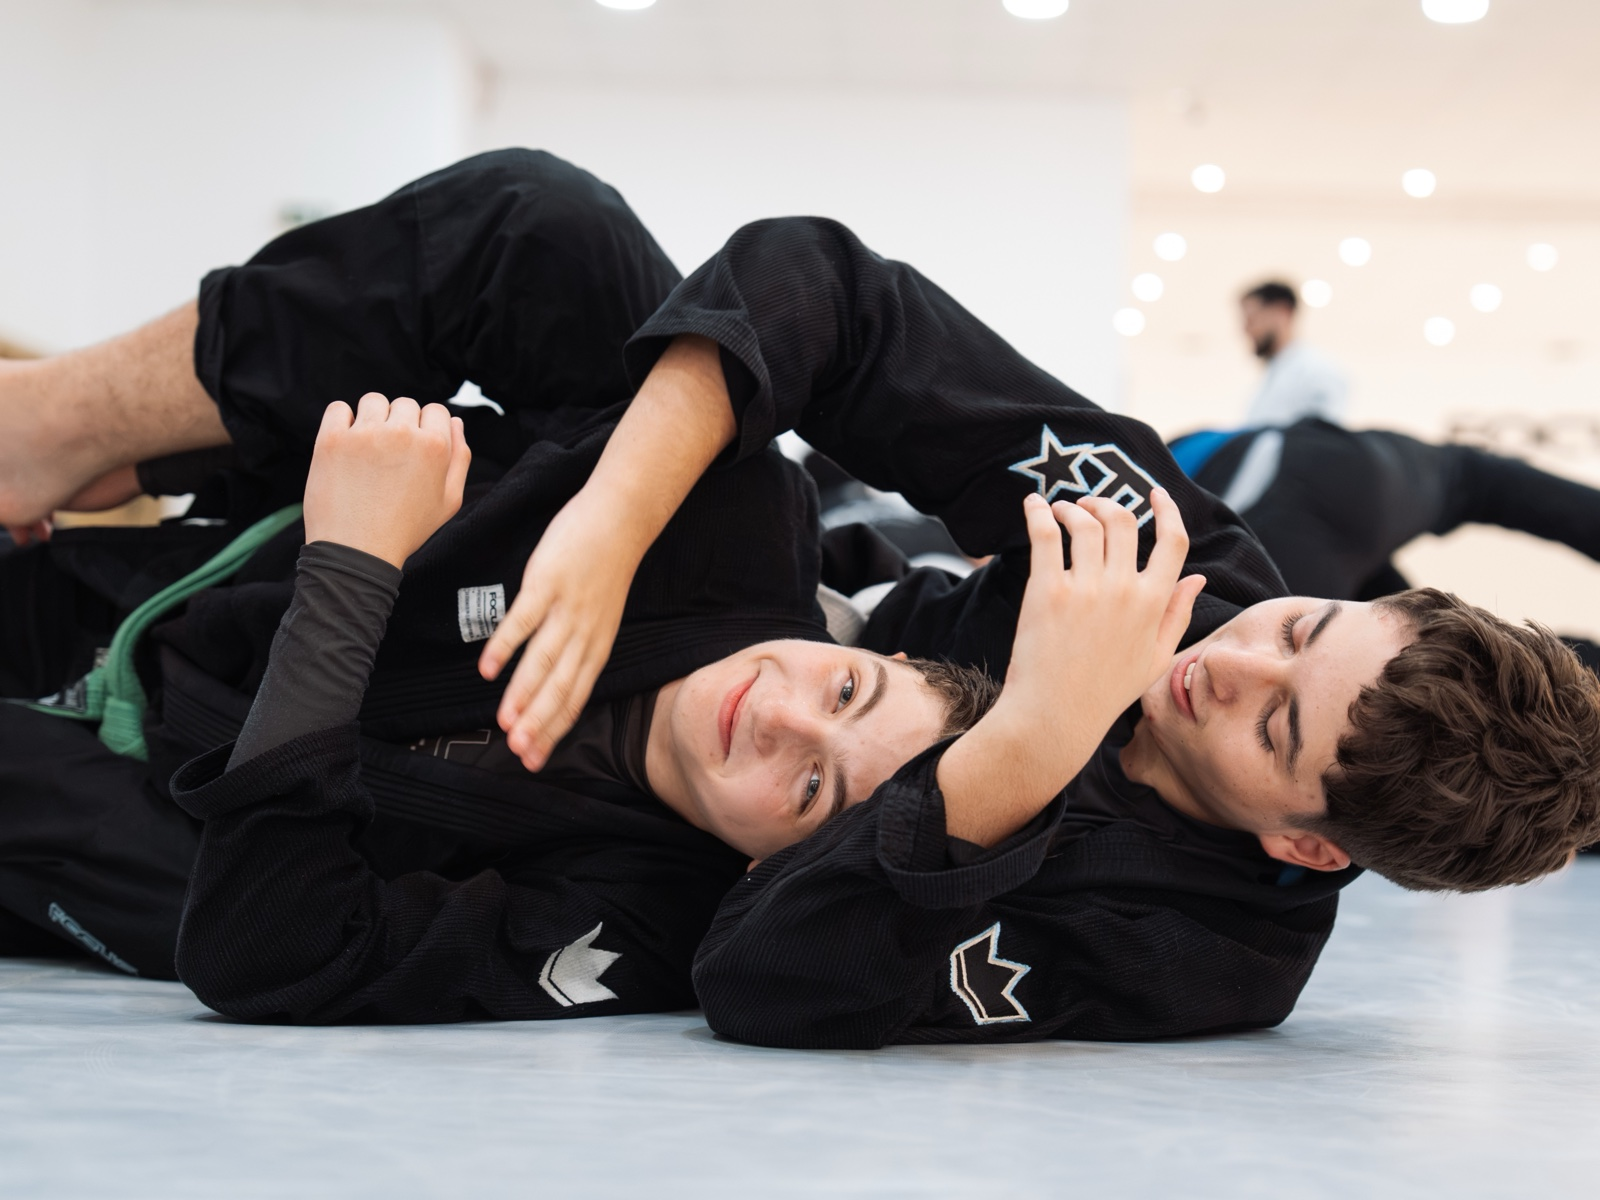
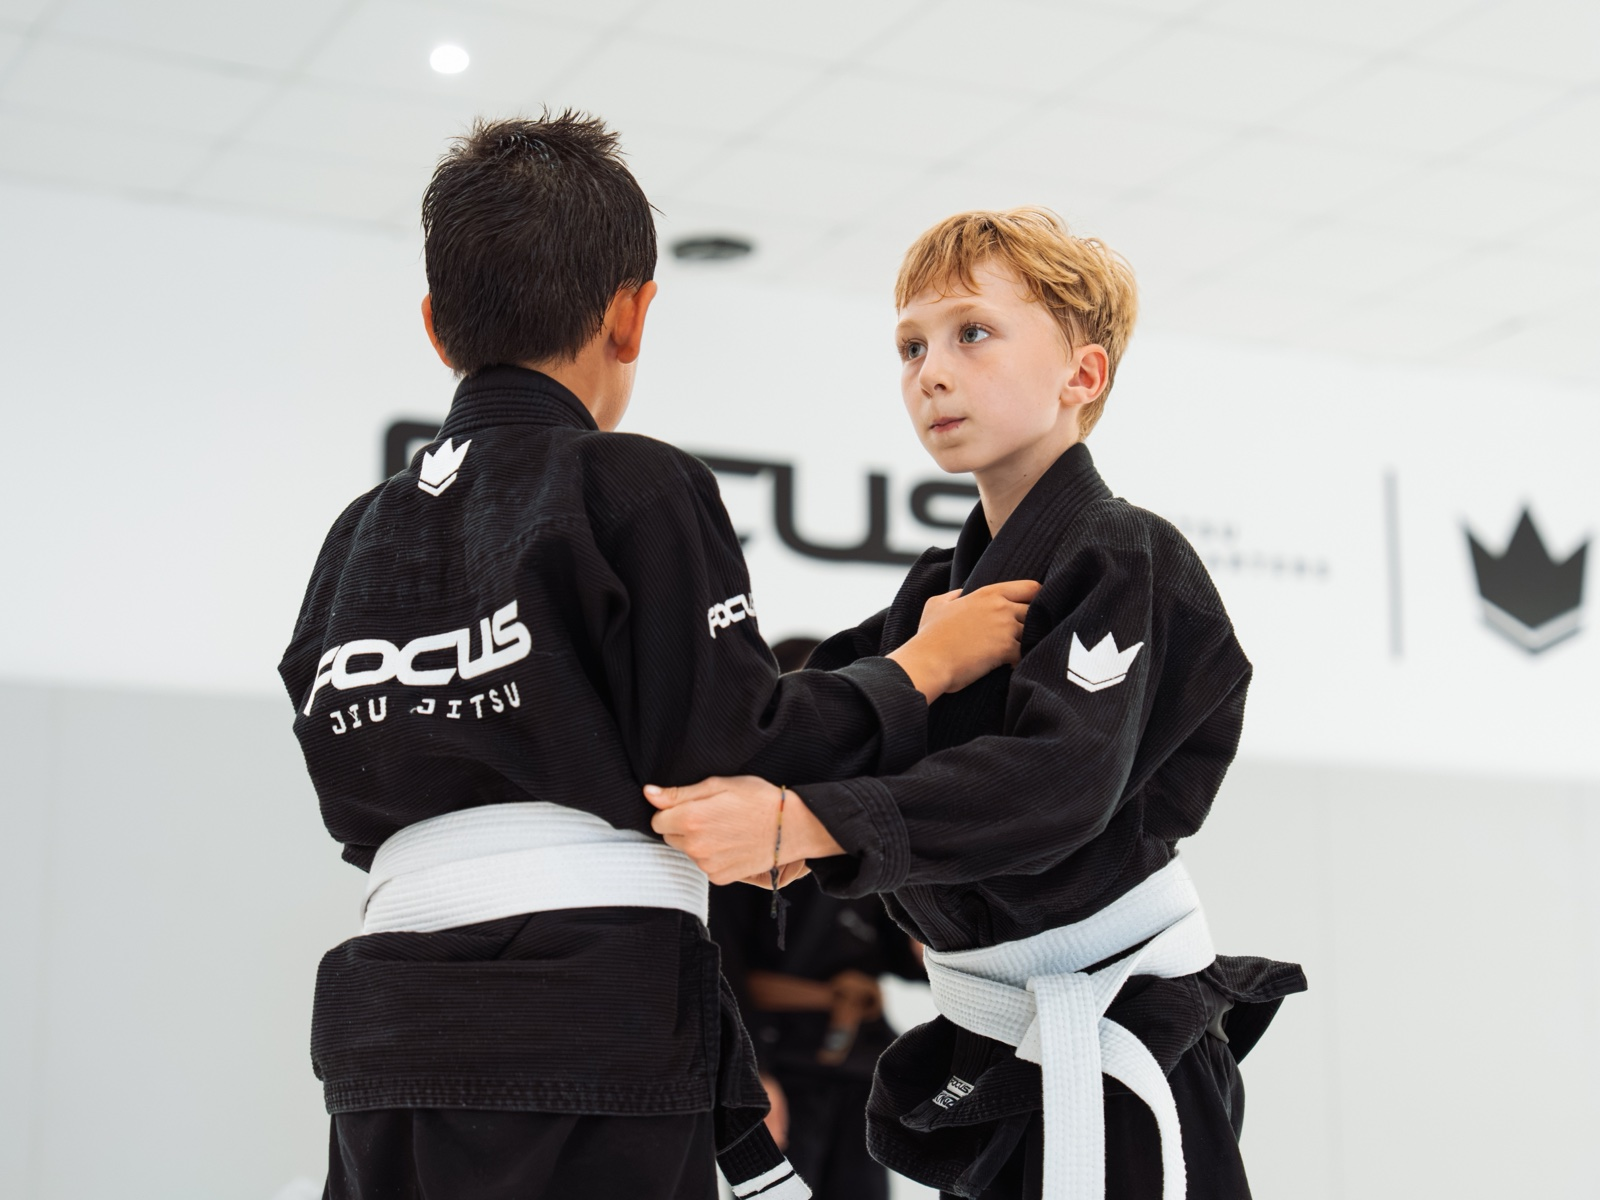
Correct Kids programme photography

diff --git a/kids.html b/kids.html
@@ -198,7 +198,7 @@
 </div>
 </div>
 </section>
-<section class="program-page-feature section-dark"><div class="section-shell program-page-feature-grid"><div class="program-page-image reveal"><img alt="Crianças a treinar Jiu-Jitsu no tatami" data-alt-en="Children training Jiu-Jitsu on the mats" data-alt-pt="Crianças a treinar Jiu-Jitsu no tatami" loading="lazy" src="assets/images/program-kids-training.jpg?v=20260817-1" height="1200" width="1600"/></div><div class="program-page-start reveal"><p class="eyebrow" data-en="YOUR FIRST STEP" data-pt="O PRIMEIRO PASSO">O PRIMEIRO PASSO</p><h2 data-en="Start with confidence." data-pt="Começa com confiança.">Começa com confiança.</h2><p data-en="The first trial class is free. The team welcomes the child and family, explains how the class works and supports integration into the group." data-pt="A primeira aula experimental é gratuita. A equipa recebe a criança e a família, apresenta o funcionamento da turma e acompanha a integração no grupo.">A primeira aula experimental é gratuita. A equipa recebe a criança e a família, apresenta o funcionamento da turma e acompanha a integração no grupo.</p><a class="button" data-whatsapp="" href="https://wa.me/351932665662" rel="noopener noreferrer" target="_blank"><span data-en="Book a trial class" data-pt="Marcar aula experimental">Marcar aula experimental</span></a><a class="text-link program-schedule-link" href="horarios.html"><span data-en="View schedule" data-pt="Ver horários">Ver horários</span></a></div></div></section>
+<section class="program-page-feature section-dark"><div class="section-shell program-page-feature-grid"><div class="program-page-image reveal"><img alt="Crianças a treinar Jiu-Jitsu no tatami" data-alt-en="Children training Jiu-Jitsu on the mats" data-alt-pt="Crianças a treinar Jiu-Jitsu no tatami" loading="lazy" src="assets/images/program-kids-training.jpg?v=20260817-2" height="1200" width="1600"/></div><div class="program-page-start reveal"><p class="eyebrow" data-en="YOUR FIRST STEP" data-pt="O PRIMEIRO PASSO">O PRIMEIRO PASSO</p><h2 data-en="Start with confidence." data-pt="Começa com confiança.">Começa com confiança.</h2><p data-en="The first trial class is free. The team welcomes the child and family, explains how the class works and supports integration into the group." data-pt="A primeira aula experimental é gratuita. A equipa recebe a criança e a família, apresenta o funcionamento da turma e acompanha a integração no grupo.">A primeira aula experimental é gratuita. A equipa recebe a criança e a família, apresenta o funcionamento da turma e acompanha a integração no grupo.</p><a class="button" data-whatsapp="" href="https://wa.me/351932665662" rel="noopener noreferrer" target="_blank"><span data-en="Book a trial class" data-pt="Marcar aula experimental">Marcar aula experimental</span></a><a class="text-link program-schedule-link" href="horarios.html"><span data-en="View schedule" data-pt="Ver horários">Ver horários</span></a></div></div></section>
 </main>
 <footer class="site-footer" id="footer-contact">
 <div class="footer-single-row section-shell">
